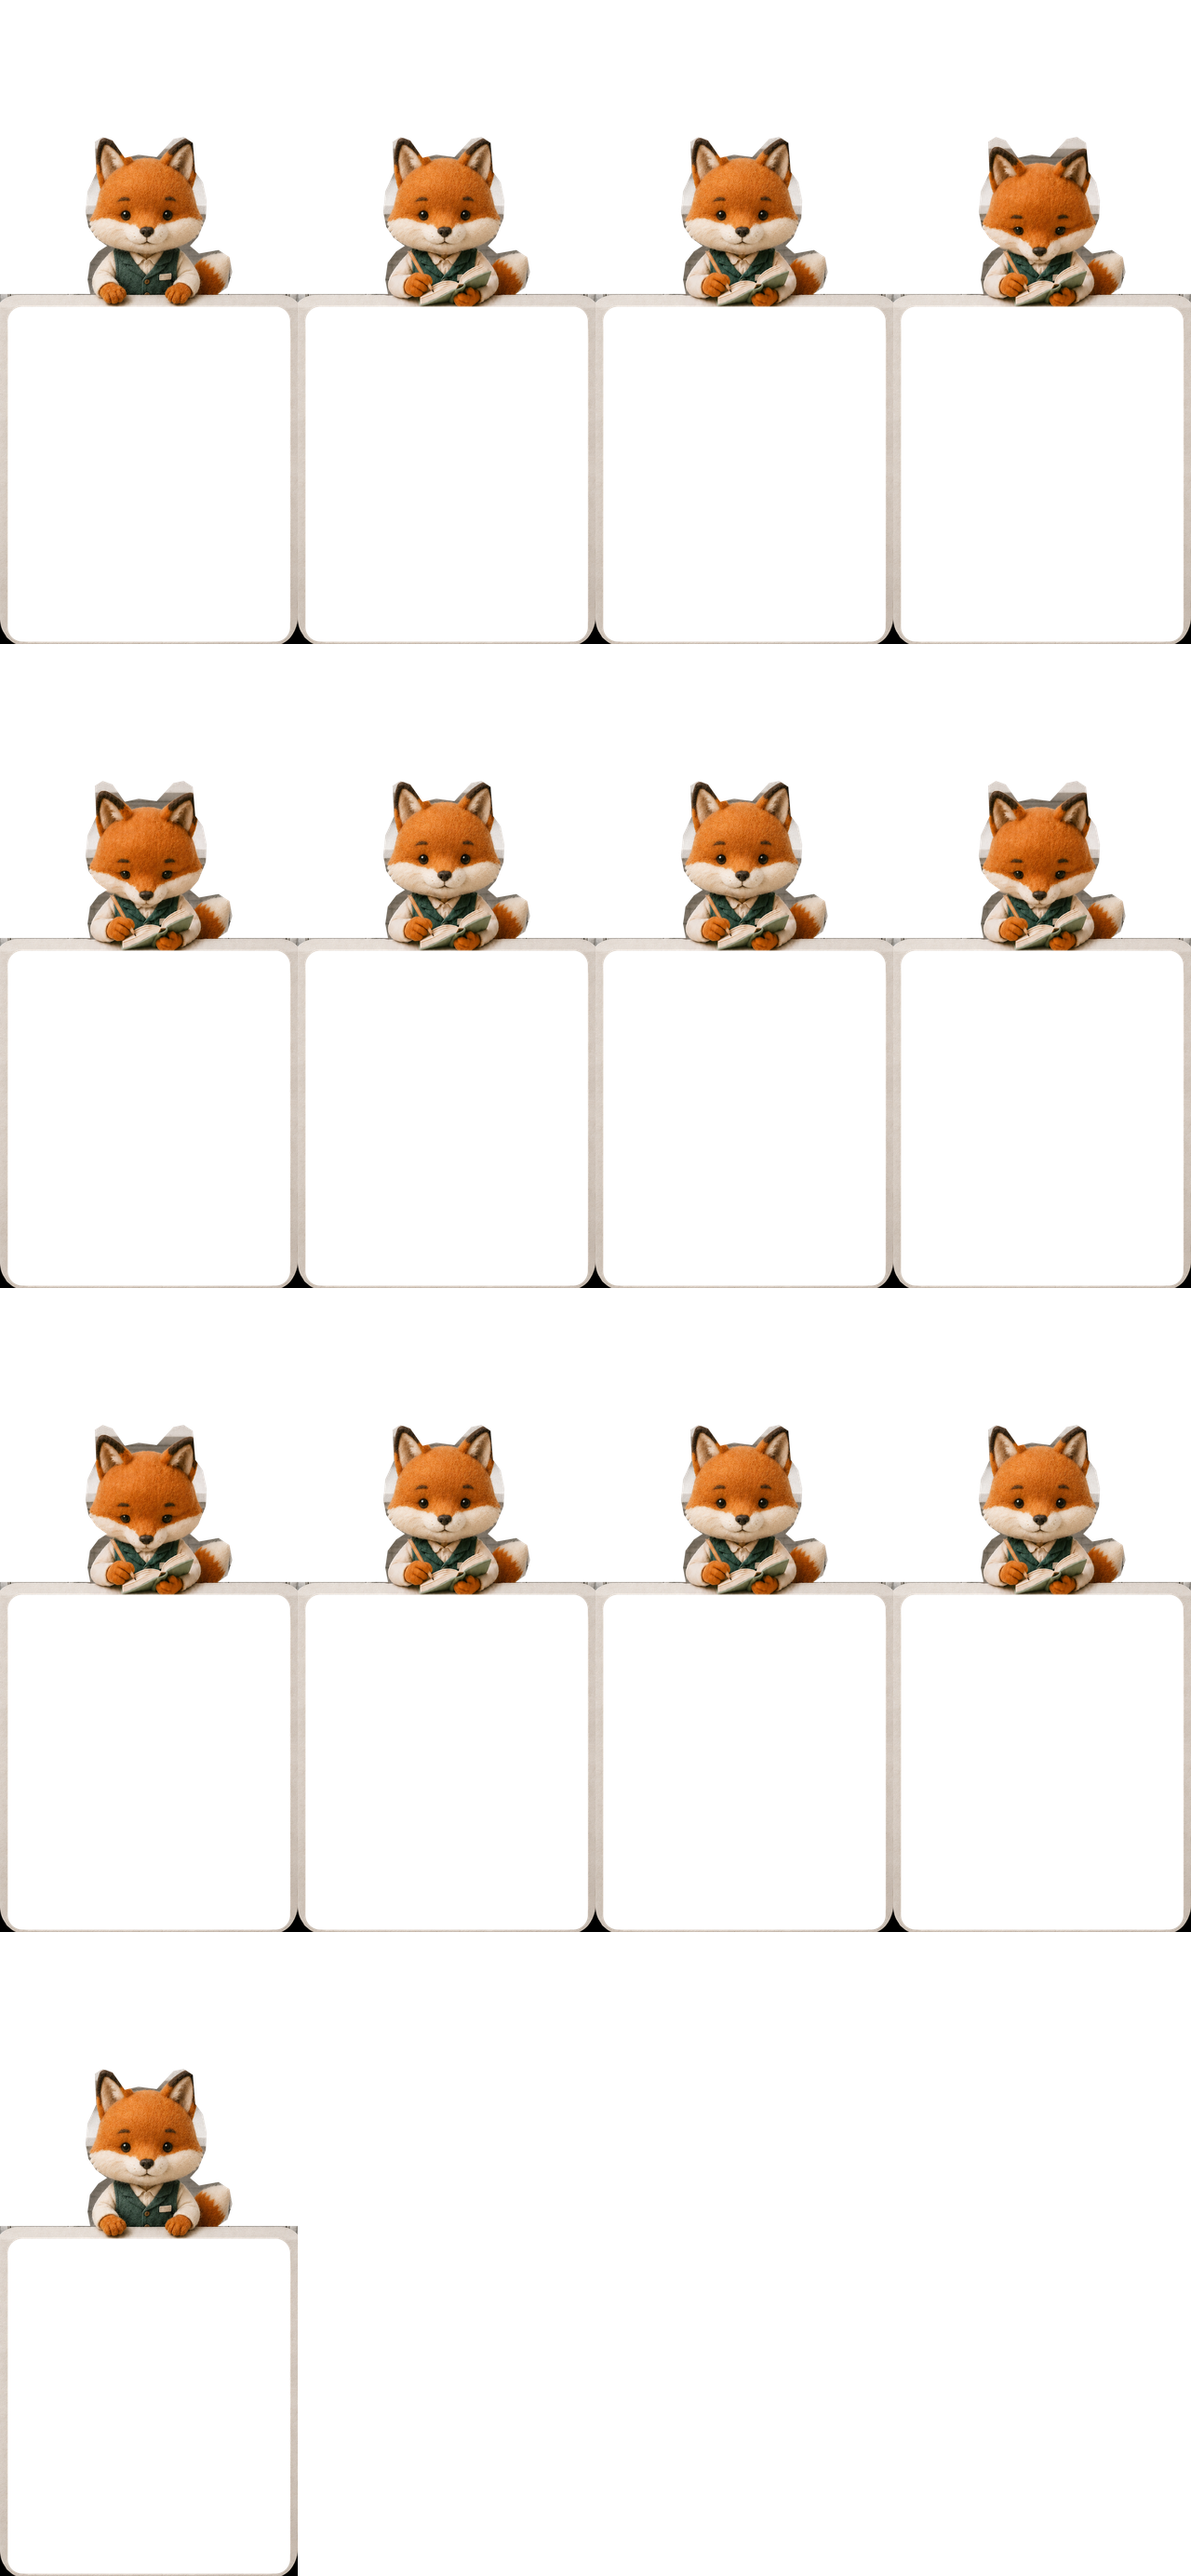
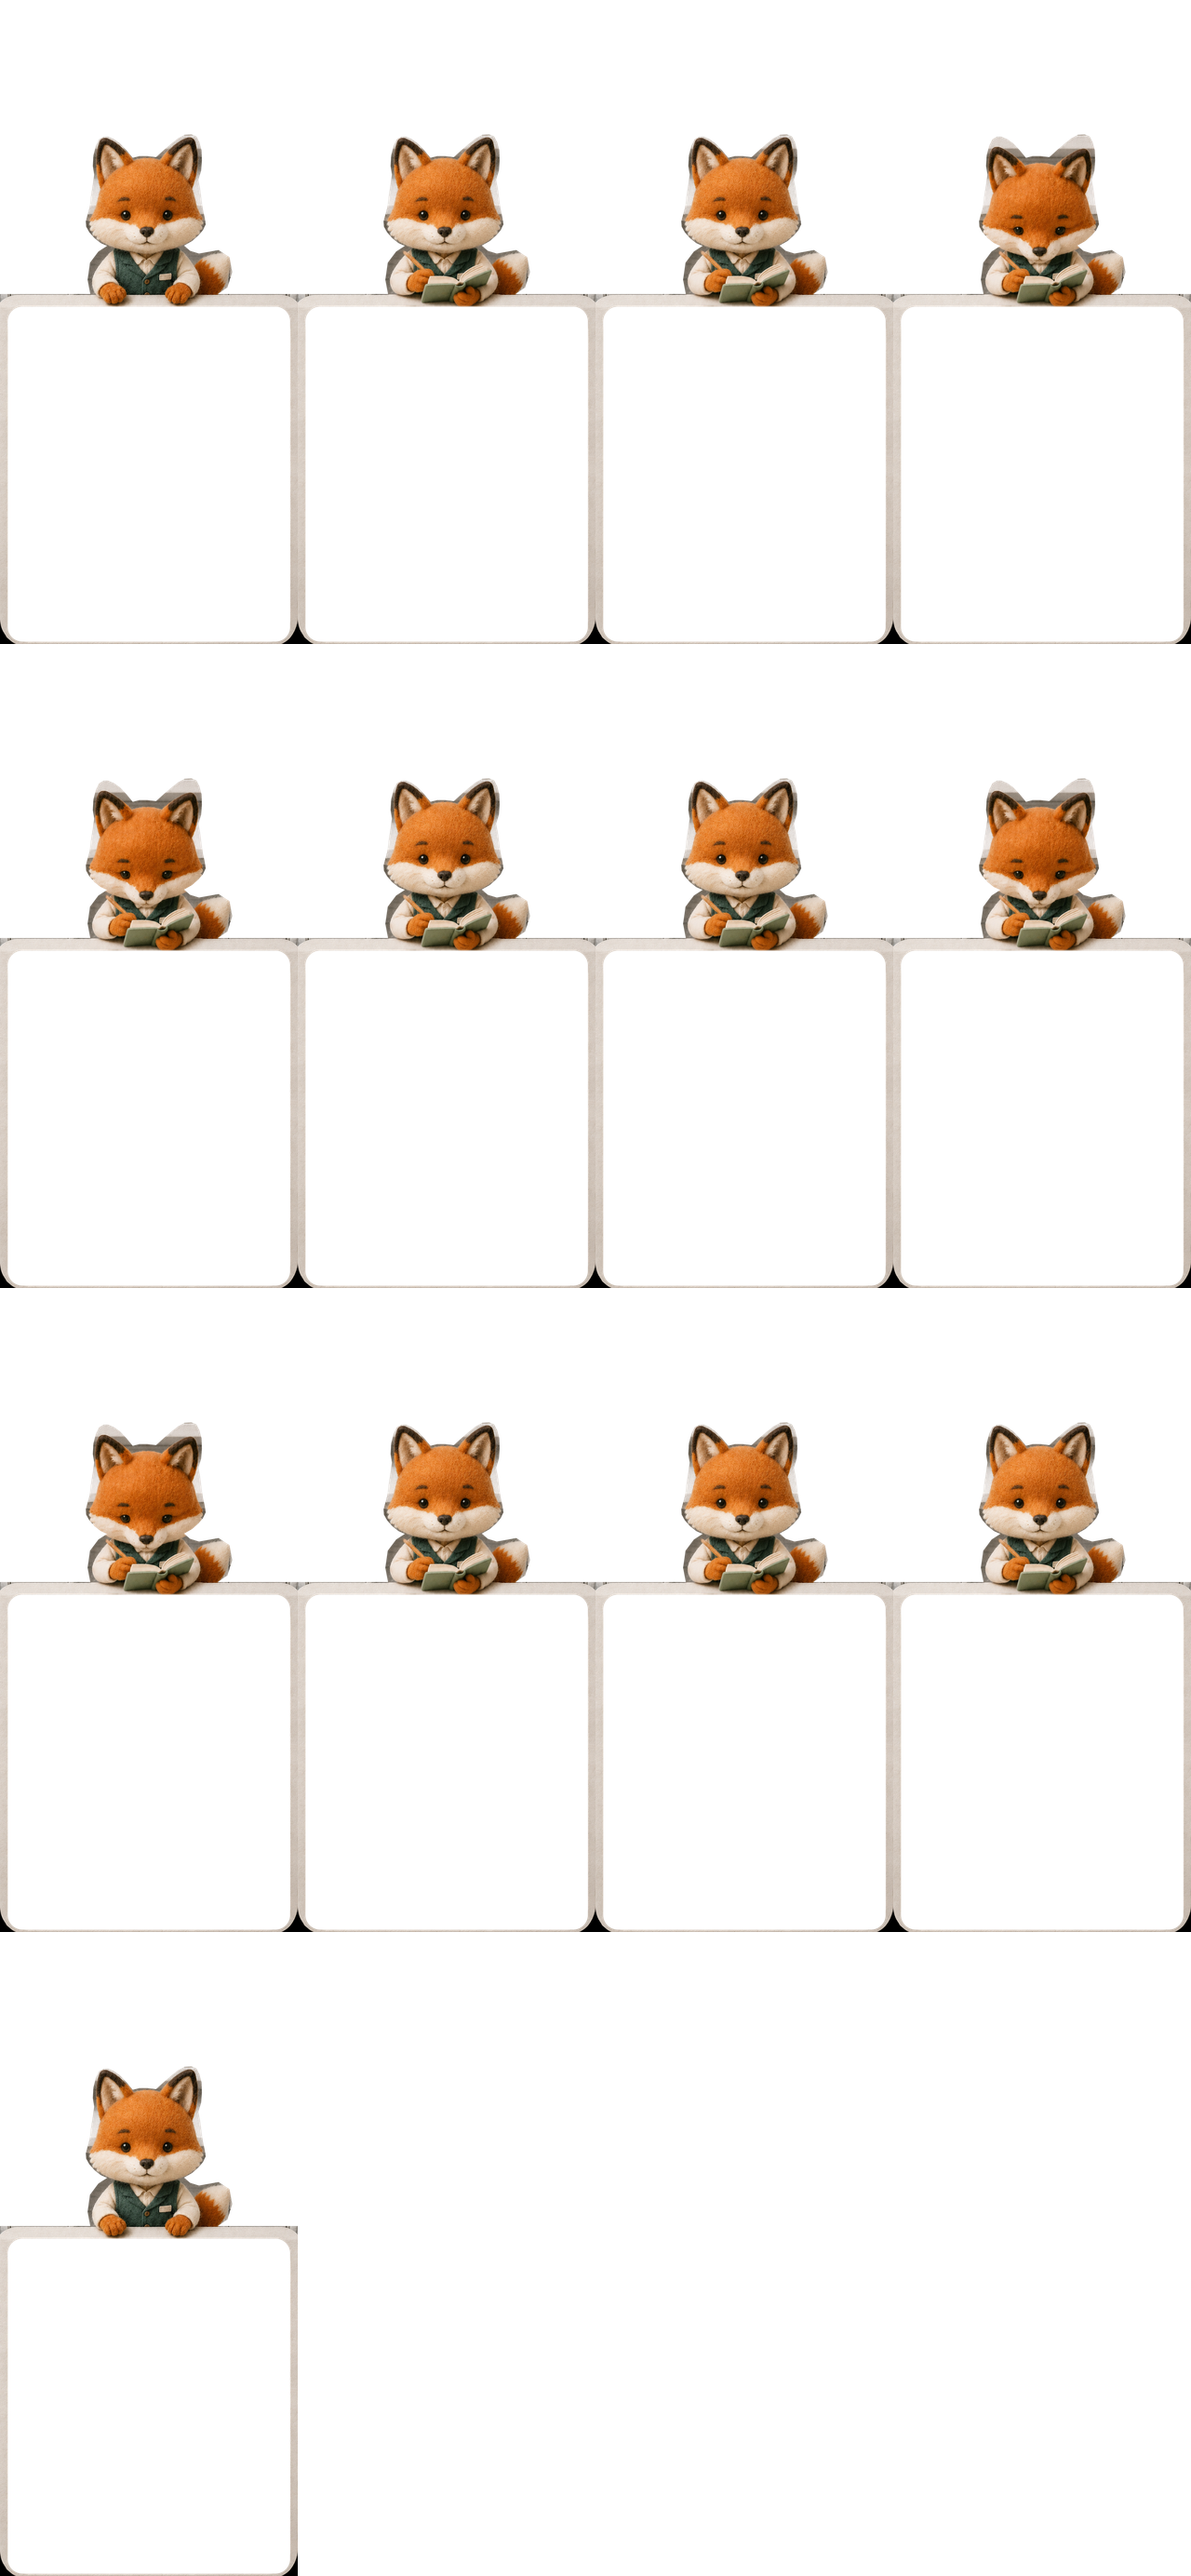
fix(fox): preserve ears and use full-frame notebook writing

diff --git a/apps/miniprogram/tools/fox-clerk-stop-motion/build_sprites.py b/apps/miniprogram/tools/fox-clerk-stop-motion/build_sprites.py
@@ -11,7 +11,7 @@ HERE = Path(__file__).resolve().parent
 SOURCE = HERE / "source"
 OUTPUT = HERE.parent.parent / "miniprogram" / "assets" / "animations" / "fox-clerk"
 FRAME_WIDTH = 320
-FPS_BY_ACTION = {"blink": 8, "talk": 6, "wave": 5}
+FPS_BY_ACTION = {"blink": 8, "talk": 6, "wave": 5, "note": 5, "nod": 5, "notebookTalk": 6}
 MASK_SCALE = 4
 
 
@@ -37,17 +37,25 @@ def actor_mask(size: tuple[int, int], pose: str) -> Image.Image:
     def points(values: list[tuple[int, int]]) -> list[tuple[int, int]]:
         return [(round(x * sx * MASK_SCALE), round(y * sy * MASK_SCALE)) for x, y in values]
 
-    # The complete fox silhouette. Deliberately shared by all face-only poses so
-    # those animations cannot introduce edge jitter.
+    # Trace outside the felt outline, including the rounded dark ear tips.
+    # The previous coarse polygon cut across the right ear and both cheeks.
+    # Shared by face-only poses to prevent edge jitter.
     fox = [
-        (276, 494), (272, 406), (294, 392), (322, 402), (357, 452),
-        (397, 443), (449, 450), (497, 398), (526, 392), (552, 409),
-        (559, 492), (581, 522), (592, 574), (589, 625), (567, 678),
-        (544, 704), (570, 726), (626, 716), (657, 736), (665, 779),
+        (270, 500), (266, 475), (268, 444), (275, 417),
+        (284, 399), (297, 391), (309, 391), (326, 398),
+        (344, 411), (361, 429), (380, 452),
+        (399, 447), (423, 447), (447, 450),
+        (469, 430), (490, 412), (510, 396), (529, 386),
+        (548, 385), (562, 390), (571, 407), (577, 430),
+        (578, 460), (576, 488), (568, 515),
+        (573, 539), (577, 570), (581, 600), (586, 623),
+        (589, 642), (581, 659), (568, 674), (550, 690),
+        (527, 703), (544, 718), (570, 726), (626, 716), (657, 736), (665, 779),
         (651, 823), (620, 844), (563, 849), (535, 842), (520, 868),
         (468, 875), (433, 845), (376, 845), (345, 877), (293, 871),
         (260, 848), (251, 801), (258, 752), (282, 720), (307, 704),
-        (276, 682), (254, 650), (245, 606), (251, 548),
+        (289, 696), (271, 682), (256, 665), (247, 649),
+        (246, 633), (251, 615), (257, 592), (260, 564), (265, 534),
     ]
     draw.polygon(points(fox), fill=255)
 
@@ -171,11 +179,14 @@ def write_sheet(frames: list[Image.Image], action: str, columns: int = 4) -> dic
     fps = FPS_BY_ACTION[action]
     return {
         "id": action,
-        "name": {"blink": "眨眼", "talk": "说话", "wave": "挥手问候"}[action],
+        "name": {"blink": "眨眼", "talk": "说话", "wave": "挥手问候", "note": "拿本子记笔记", "nod": "拿本子点头", "notebookTalk": "拿本子说话"}[action],
         "description": {
             "blink": "狐狸层切换睁眼、半闭和闭眼姿态；环境与白框保持静止",
             "talk": "整张狐狸与板子完全固定，只切换嘴部口型，消除脸部纹理闪动",
             "wave": "固定狐狸身体与板子，仅让四指纯橙色毛毡手臂完成抬手、慢速摆动和收手",
+            "note": "手持浅色笔记本，用铅笔完成几次短笔画，再回到静止姿态",
+            "nod": "保持本子与双手稳定，低头回应后抬头，再回到静止姿态",
+            "notebookTalk": "拿着本子面向你说话，本子与双手固定，仅切换口型",
         }[action],
         "src": f"/animations/fox-clerk/{action}.webp",
         "frameCount": len(frames),
@@ -213,6 +224,20 @@ def main() -> None:
     }
     actor = {name: actor_frame(image, name) for name, image in poses.items()}
 
+    # Extract generated keyframe regions; do not transform or synthesize poses.
+    notebook_mask = rounded_mask(size, (258, 715, 578, 877), 18).filter(ImageFilter.GaussianBlur(3))
+    hold = Image.composite(normalized_image("notebook-hold.png", size), neutral, notebook_mask)
+    head_mask = rounded_mask(size, (244, 390, 594, 759), 18).filter(ImageFilter.GaussianBlur(3))
+    nodding = Image.composite(normalized_image("notebook-nod.png", size), hold, head_mask)
+    hold_actor = actor_frame(hold, "neutral")
+    # Writing uses complete generated actor/board keyframes, never hand patches
+    # or a separately pasted notebook. Occlusion belongs to the source image.
+    note_hold_actor = actor_frame(normalized_image("notebook-hold.png", size), "neutral")
+    writing_actor = actor_frame(normalized_image("notebook-write-full.png", size), "neutral")
+    nod_actor = actor_frame(nodding, "neutral")
+    notebook_quiet = actor_frame(keep_only_mouth(poses["talk-quiet"], hold), "neutral")
+    notebook_open = actor_frame(keep_only_mouth(poses["talk-a"], hold), "neutral")
+
     output_size = (FRAME_WIDTH, round(size[1] * FRAME_WIDTH / size[0]))
     environment = normalized_image("environment-plate.png", size).convert("RGB").resize(output_size, Image.Resampling.LANCZOS)
     environment.save(OUTPUT / "environment.webp", "WEBP", quality=92, method=6)
@@ -245,9 +270,26 @@ def main() -> None:
         write_sheet(blink_frames, "blink"),
         write_sheet(talk_frames, "talk"),
         write_sheet(wave_frames, "wave"),
+        write_sheet([
+            actor["neutral"], note_hold_actor, note_hold_actor, note_hold_actor,
+            writing_actor, writing_actor, writing_actor, writing_actor,
+            note_hold_actor, note_hold_actor, note_hold_actor, note_hold_actor,
+            actor["neutral"],
+        ], "note"),
+        write_sheet([
+            actor["neutral"], hold_actor, hold_actor,
+            nod_actor, nod_actor, hold_actor, hold_actor,
+            nod_actor, nod_actor, hold_actor, hold_actor,
+            hold_actor, actor["neutral"],
+        ], "nod"),
+        write_sheet([
+            actor["neutral"], hold_actor, notebook_quiet, notebook_quiet,
+            notebook_open, notebook_open, notebook_quiet, hold_actor,
+            notebook_open, notebook_quiet, hold_actor, hold_actor, actor["neutral"],
+        ], "notebookTalk"),
     ]
     manifest = {
-        "version": 6,
+        "version": 11,
         "character": "fox-clerk",
         "style": "needle-felt stop-motion",
         "frameMode": "three-layer",

diff --git a/apps/miniprogram/tools/fox-clerk-stop-motion/validate_ears.py b/apps/miniprogram/tools/fox-clerk-stop-motion/validate_ears.py
@@ -1,0 +1,42 @@
+"""Check ear coverage in every packed frame and render all-action previews."""
+import json
+from pathlib import Path
+from PIL import Image
+
+HERE = Path(__file__).resolve().parent
+ASSETS = HERE.parent.parent / 'miniprogram/assets/animations/fox-clerk'
+QA = HERE / 'qa'
+QA.mkdir(exist_ok=True)
+manifest = json.loads((ASSETS / 'manifest.json').read_text())
+environment = Image.open(ASSETS / 'environment.webp').convert('RGBA')
+panel = Image.open(ASSETS / 'inner-panel.webp').convert('RGBA')
+contact = Image.new('RGB', (4 * 320, len(manifest['animations']) * 250), '#ded8ce')
+checked = 0
+for row, clip in enumerate(manifest['animations']):
+    sheet = Image.open(ASSETS / (clip['id'] + '.webp')).convert('RGBA')
+    w, h = clip['frameWidth'], clip['frameHeight']
+    assert sheet.size == (w * clip['columns'], h * clip['rows'])
+    frames = []
+    for index in range(clip['columns'] * clip['rows']):
+        x, y = index % clip['columns'] * w, index // clip['columns'] * h
+        actor = sheet.crop((x, y, x + w, y + h))
+        if index >= clip['frameCount']:
+            assert actor.getbbox() is None
+            continue
+        alpha = actor.getchannel('A')
+        # Interior felt landmarks at both ear tips and the right outer rim.
+        # In the old mask the right tip/rim were transparent or partly cut.
+        for sx, sy in [(300, 407), (546, 402), (560, 427), (564, 470)]:
+            px, py = round(sx * w / 853), round(sy * h / 1844)
+            assert alpha.getpixel((px, py)) >= 250, (clip['id'], index, sx, sy)
+        frame = environment.copy()
+        frame.alpha_composite(actor)
+        frame.alpha_composite(panel)
+        frames.append(frame.convert('RGB'))
+        checked += 1
+    for column, index in enumerate([0, min(3, len(frames)-1), min(4, len(frames)-1), min(8, len(frames)-1)]):
+        contact.paste(frames[index].crop((0, 120, 320, 370)), (column * 320, row * 250))
+    frames[0].save(QA / (clip['id'] + '.gif'), save_all=True, append_images=frames[1:], duration=round(1000/clip['fps']), loop=0)
+contact.save(QA / 'all-actions-contact.jpg')
+(QA / 'ear-validation.json').write_text(json.dumps({'version': manifest['version'], 'actions': len(manifest['animations']), 'framesChecked': checked, 'earCoverage': 'passed'}, indent=2) + '\n')
+print(f'Validated ear coverage, geometry and unused cells across {checked} frames.')

diff --git a/apps/miniprogram/tools/fox-clerk-stop-motion/preview_notebook.py b/apps/miniprogram/tools/fox-clerk-stop-motion/preview_notebook.py
@@ -1,0 +1,41 @@
+"""Validate packed notebook clips and render review contact sheets / GIFs."""
+import json
+from pathlib import Path
+from PIL import Image, ImageChops
+
+HERE = Path(__file__).resolve().parent
+ASSETS = HERE.parent.parent / 'miniprogram/assets/animations/fox-clerk'
+QA = HERE / 'qa'
+QA.mkdir(exist_ok=True)
+manifest = json.loads((ASSETS / 'manifest.json').read_text())
+environment = Image.open(ASSETS / 'environment.webp').convert('RGBA')
+panel = Image.open(ASSETS / 'inner-panel.webp').convert('RGBA')
+contact = Image.new('RGB', (4 * 320, 3 * 250), '#ded8ce')
+for row, action in enumerate(['nod', 'note', 'notebookTalk']):
+    clip = next(a for a in manifest['animations'] if a['id'] == action)
+    sheet = Image.open(ASSETS / f'{action}.webp').convert('RGBA')
+    width, height = clip['frameWidth'], clip['frameHeight']
+    assert sheet.size == (width * clip['columns'], height * clip['rows'])
+    frames = []
+    actors = []
+    for index in range(clip['columns'] * clip['rows']):
+        x, y = index % clip['columns'] * width, index // clip['columns'] * height
+        actor = sheet.crop((x, y, x + width, y + height))
+        if index >= clip['frameCount']:
+            assert actor.getbbox() is None
+            continue
+        assert actor.getbbox()
+        actors.append(actor)
+        frame = environment.copy()
+        frame.alpha_composite(actor)
+        frame.alpha_composite(panel)
+        frames.append(frame.convert('RGB'))
+    if action == 'notebookTalk':
+        # During speech the hands, pencil and book must be pixel-identical.
+        for actor in actors[2:-1]:
+            assert ImageChops.difference(actors[1].crop((0, 278, 320, 692)), actor.crop((0, 278, 320, 692))).getbbox() is None
+    frames[0].save(QA / f'{action}.gif', save_all=True, append_images=frames[1:], duration=round(1000 / clip['fps']), loop=0)
+    for column, index in enumerate([1, 3, 4, 8]):
+        contact.paste(frames[index].crop((0, 120, 320, 370)), (column * 320, row * 250))
+contact.save(QA / 'notebook-contact.jpg')
+print('Validated dimensions, occupied/unused cells, fixed speech props; generated 3 GIFs and contact sheet.')

diff --git a/apps/miniprogram/tools/fox-clerk-stop-motion/README.md b/apps/miniprogram/tools/fox-clerk-stop-motion/README.md
@@ -8,6 +8,14 @@ python3 apps/miniprogram/tools/fox-clerk-stop-motion/build_sprites.py
 
 The builder requires Pillow.
 
+The shared actor mask follows the rounded felt ear outlines, with room for the
+small differences between blink keyframes. Keep the right ear tip and outer
+rim inside the mask; a coarse straight polygon previously clipped them in
+every action. After rebuilding, run `python3
+apps/miniprogram/tools/fox-clerk-stop-motion/validate_ears.py` to check all
+frames and generate `qa/all-actions-contact.jpg`, per-action GIFs, and
+`qa/ear-validation.json`.
+
 The animation uses three locked, full-canvas layers:
 
 1. static environment;
@@ -31,3 +39,50 @@ Key poses:
 
 The two wave frames receive one global full-frame exposure/color transform to
 match the neutral lighting. No local arm translation or pasted hand is used.
+
+Notebook actions (`note` and `nod`, 13 frames at 5 fps) share generated
+full-canvas keyframes:
+
+- `notebook-hold.png`: open sage notebook and wooden pencil, eyes forward.
+- `notebook-write-full.png`: complete adjacent writing pose, with the pencil
+  tip already hidden behind the upright notebook in the source image.
+- `notebook-nod.png`: head lowered in a friendly nod, holding the same notebook.
+
+Writing uses the complete actor/board region from each source keyframe. Do not
+paste a moving hand or foreground notebook into the writing frames: mismatched
+hand textures and positions caused visible jitter. The two whole poses dwell
+for 0.6–0.8 seconds instead of alternating every 0.2 seconds. Only the shared
+outer silhouette is extracted for the existing scene layers. The notebook
+occludes the tip in the source itself; the visible page edges are not writing
+surfaces. The experimental `*-v2.png` and `notebook-write-occluded.png` sources
+are not used. The approved nod and speech assembly remains unchanged.
+Both one-shot actions end in the existing neutral frame. Select them in the
+debug console's animation lab, or call `playCharacterAction('note')` /
+`playCharacterAction('nod')` on the character page.
+
+`notebookTalk` adds 13 frames at 6 fps using the same approved holding pose and
+the existing `talk-quiet` / `talk-a` mouth sources. Only the mouth moves; the
+notebook, hands and pencil remain fixed throughout speech. Call
+`playCharacterAction('notebookTalk')` or select 拿本子说话 in the animation lab.
+
+Generation used the built-in imagegen tool, sequentially, grounded first in
+`neutral.png` and then `notebook-hold.png`. Prompt specifications:
+
+1. Preserve the full portrait, fox identity, needle-felt texture, lighting,
+   shelves and blank foreground panel. Add a small open cream notebook with
+   sage cover in the left paw (viewer right), and a wooden pencil in the right
+   paw touching the page. Keep the face looking forward; no text or collage.
+2. Generate one complete adjacent writing keyframe from `notebook-hold.png`.
+   Lock the full 853×1844 canvas, camera, texture, face and upright notebook;
+   move the writing paw and rigid pencil together about six pixels to viewer
+   right. Hide the entire sharpened tip behind the foreground book and hand.
+   Never draw on visible page edges, spine, cover or outside the book. Preserve
+   full-image alignment: use the whole actor, not a pasted hand patch.
+3. Preserve the hold keyframe; gently bow the head with lowered chin/muzzle
+   and eyelids for a friendly nod. Keep notebook, pencil, paws and torso fixed.
+
+Run `python3 apps/miniprogram/tools/fox-clerk-stop-motion/preview_notebook.py`
+after building to validate the sheets and regenerate `qa/note.gif`,
+`qa/nod.gif`, `qa/notebookTalk.gif`, and `qa/notebook-contact.jpg`.
+Production assets remain in the shared animation
+directory so both the mini program and debug console consume the same sheets.
